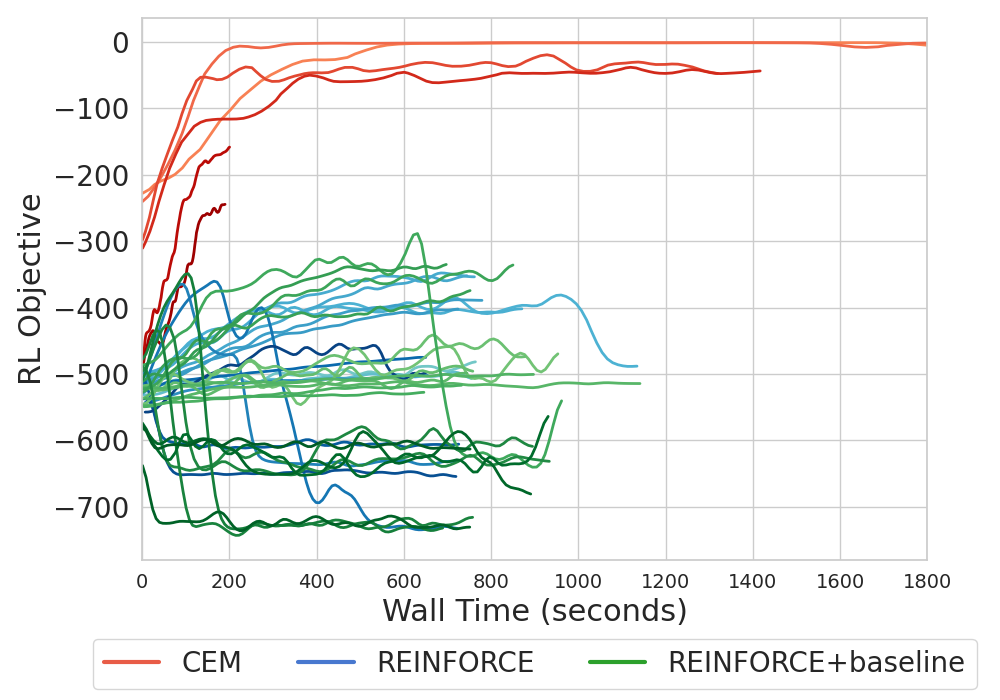
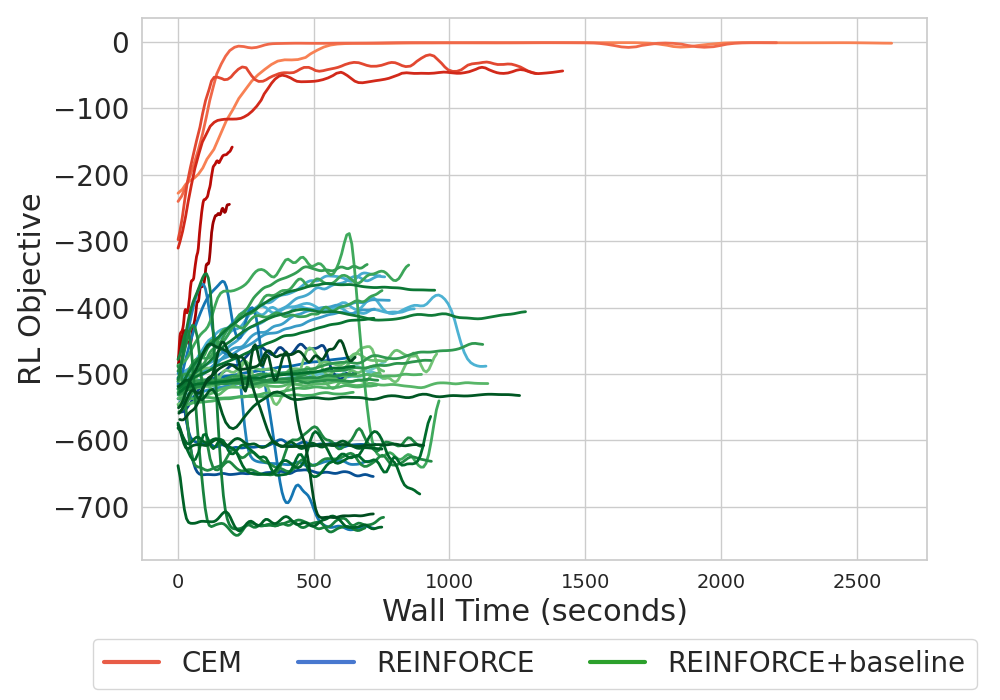
update stuff

diff --git a/cem_beta_pendulum.py b/cem_beta_pendulum.py
@@ -96,7 +96,7 @@ def cem(
     gamma=0.99,  # Added gamma parameter
 ):
     # Create a unique folder name based on parameters
-    folder_name = f"beta_cem_data_Pendulum-v1_std_pop{n_pop}_size{size}_evals{n_evals}_elite{elite_prop}_seed{seed}"
+    folder_name = f"temp_beta_cem_data_Pendulum-v1_std_pop{n_pop}_size{size}_evals{n_evals}_elite{elite_prop}_seed{seed}"
     os.makedirs(folder_name, exist_ok=True)
     base_steps = 100 * 64 * 50  # baseline: 100 iterations with batch_size=64, n_evals=50
     n_iters = int(base_steps / (n_pop * n_evals))
@@ -162,6 +162,7 @@ def cem(
         training_data["population_scores"][iters] = pop_mean_rewards
         training_data["best_pop_idx"][iters] = elite_indices[-1]
         training_data["train_scores"][iters] = pop_mean_rewards[elite_indices[-1]]
+        print(training_data["train_scores"][iters])
         # population = np.random.multivariate_normal(
         #     mean=mean_new_pop, cov=cov_new_pop, size=n_pop
         # )

diff --git a/plotting_walltime.py b/plotting_walltime.py
@@ -97,7 +97,6 @@ plt.ylabel("RL Objective", fontsize=22)
 # Increase tick label sizes
 plt.xticks(fontsize=14)
 plt.yticks(fontsize=20)
-plt.xlim(0, 1800)
 
 # Add more bottom margin to accommodate the legend
 plt.tight_layout()
